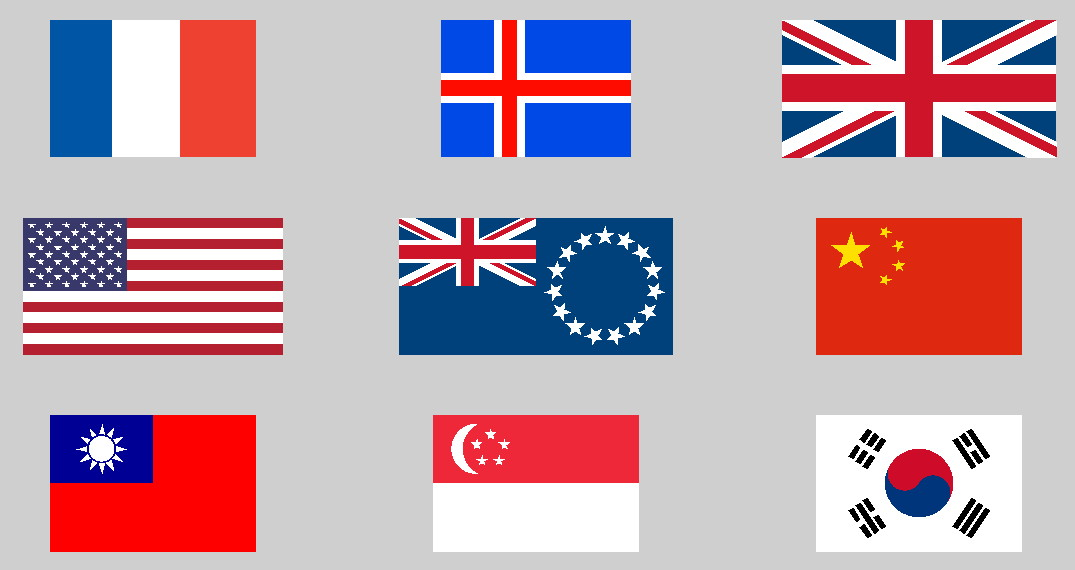
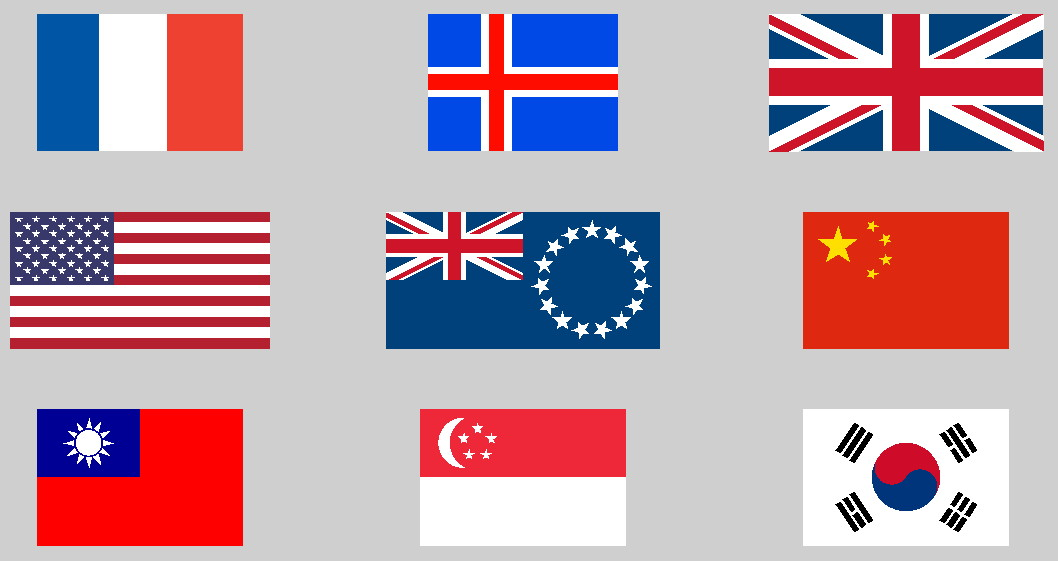
fix error of Korea flag

diff --git a/main.m b/main.m
@@ -225,7 +225,7 @@ function drawFlagKorea()
   drawCircle(p0 + pp, 12, BLUE);
   drawCircle(p0 - pp, 12, RED);
 
-  brk = [1, 1, 1; 1, 0, 1; 0, 1, 0; 0, 0, 0];
+  brk = [0, 0, 0; 0, 1, 0; 1, 0, 1; 1, 1, 1];
   theta = [dig, pi / 2] * [-1, 1; 1, 1; 1, -1; -1, -1]';
   
   for i = 1:4
@@ -234,9 +234,9 @@ function drawFlagKorea()
       
       if brk(i, j)
         % break into two pieces instead for better view in small viewport
-        pcx = [1, 1, 1] * 65 + [-1, 1, 1] * 5;
+        pcx = [60, 71, 71];
         drawFlagKorenBar(pcx, pcy, theta(i));
-        drawFlagKorenBar(pcx + 14, pcy, theta(i));
+        drawFlagKorenBar(pcx + 13, pcy, theta(i));
       else
         pcx = [1, 1, 1] * 72 + [-1, 1, 1] * 12;
         drawFlagKorenBar(pcx, pcy, theta(i));
